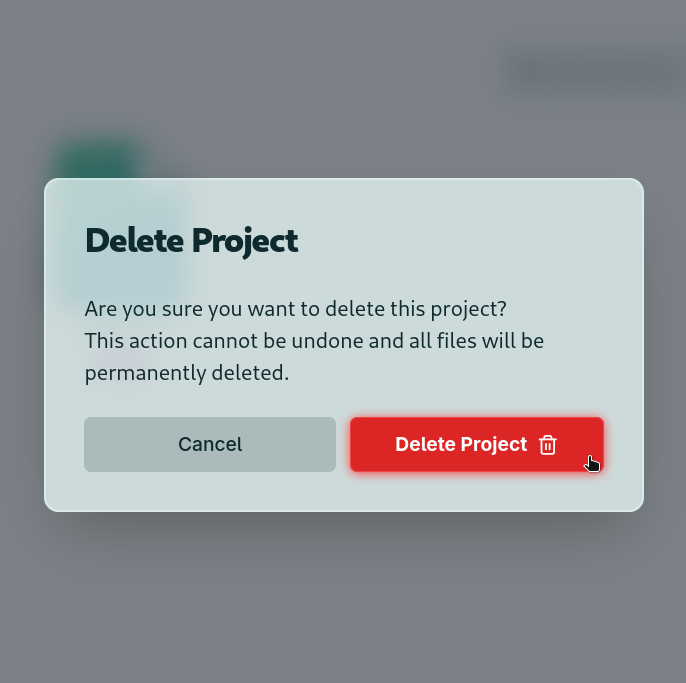
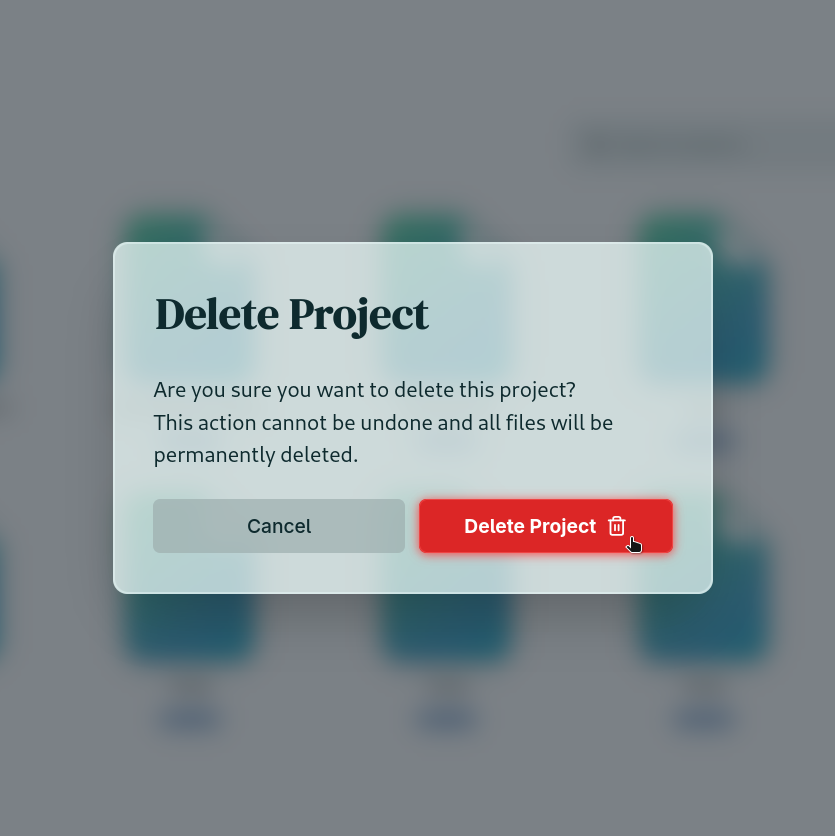
feat(frontend): Use serif font for remaining modals + update screenshots

diff --git a/frontend/src/lib/components/ui/UserSettingsModal.svelte b/frontend/src/lib/components/ui/UserSettingsModal.svelte
@@ -540,7 +540,8 @@
         line-height: 1;
         height: 40px;
         box-sizing: border-box;
-        padding: 0;
+        padding-bottom: 0.1rem;
+        margin-bottom: 0.1rem;
     }
 
     .display-name-input {
@@ -554,10 +555,10 @@
     }
 
     .display-name-button {
-        border: 1px solid transparent;
+        border: none;
         background: transparent;
         text-align: left;
-        cursor: pointer;
+        cursor: text;
         min-width: 0;
         white-space: nowrap;
         overflow: hidden;
@@ -567,9 +568,9 @@
 
     .display-name-button:hover:not(:disabled),
     .display-name-button:focus-visible {
-        outline: 2px solid var(--color-primary-500);
         outline-offset: 2px;
         border-radius: var(--radius-sm);
+        
     }
 
     .display-name-button:disabled {
@@ -604,12 +605,6 @@
         opacity: 0.65;
         cursor: not-allowed;
     }
-
-    /* .hero-email {
-        margin: 0;
-        color: red;
-        font-size: var(--text-md);
-    } */
 
     .hero-meta p {
         margin: 0;

diff --git a/frontend/src/lib/components/ui/Modal.svelte b/frontend/src/lib/components/ui/Modal.svelte
@@ -162,8 +162,10 @@
   }
 
   .modal-title {
-    font-size: var(--text-xl);
+    font-size: 2rem;
     font-weight: var(--font-semibold);
+    font-family: "DM Serif Display", Georgia, serif;
+    letter-spacing: -0.01em;
     color: var(--dialog-text);
     margin: 0;
   }